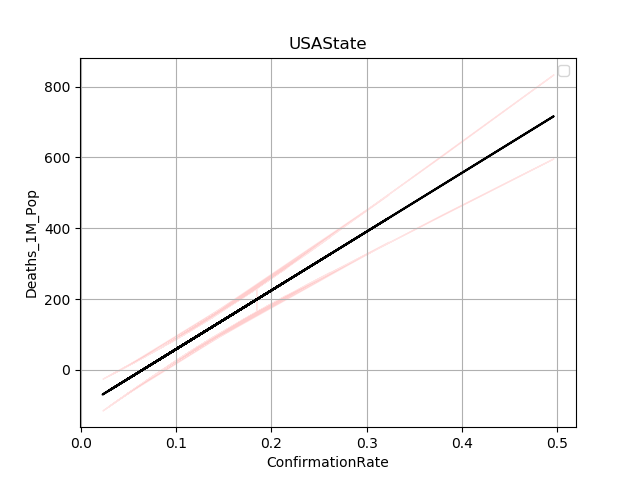
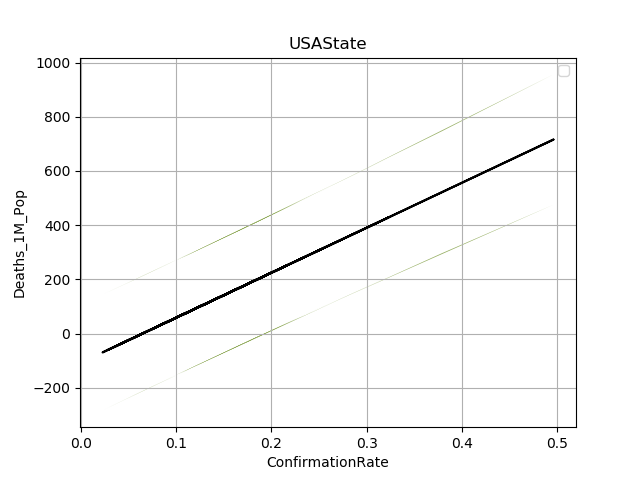
Adding Prediction interval

diff --git a/Python/Statistics/LinearRegression.py b/Python/Statistics/LinearRegression.py
@@ -7,8 +7,8 @@ from Statistics.LinearRegressionBase import LinearRegressionBase
 
 
 class LinearRegression(LinearRegressionBase):
-    def __init__(self, location, X, Y, xlabel, ylabel):
-        super().__init__(location, X, Y, xlabel, ylabel)
+    def __init__(self, X, Y, title, xlabel, ylabel):
+        super().__init__(X, Y, title, xlabel, ylabel)
 
         self.X_matrix = self.createXMatrix()
         XTX = self.X_matrix.transpose() @ self.X_matrix
@@ -18,6 +18,7 @@ class LinearRegression(LinearRegressionBase):
         self.v1 = self.n - 2
         self.S1 = SSe
         self.sigma = np.sqrt(self.S1 / self.v1)
+        b = self.b_pdf(self.B[1], self.sigma, self.v1)
         self.y = self.createLinReg(self.B[0], self.B[1])
         self.plotLine(self.y)
 
@@ -30,25 +31,42 @@ class LinearRegression(LinearRegressionBase):
     def a_pdf(self):
         a = t.pdf(self.X, self.B[0], self.sigma * np.sqrt(1/self.n), self.v1)
 
-    def getPrecision(self):
-        precision_pdf = gamma.pdf(self.X, self.v1/2, self.S1/2)
-        print("Precision is: {}".format(precision_pdf))
-        return precision_pdf
 
-    def CI(self, theta):
+    def Interval(self, theta, pred_number = 0):
         m = self.getMu(self.B)
         st = t.ppf(theta, self.v1)
-        s = self.getSigma(self.sigma)
+        s = self.getSigma(self.sigma, pred_number)
         lower = m - (st * s)
         upper = m + (st * s)
-        return np.array([lower, upper])
+        if pred_number == 0:
+            self.CI = np.array([lower, upper])
+            return self.CI
+        else:
+            self.PI = np.array([lower, upper])
+            return self.PI
 
-    def plotCredibility(self, color='r', ci = None):
+    def precisionDistr(self):
+        precision = []
+        x_axis = np.linspace(self.Xmin, self.Xmax)
+        for x in x_axis:
+            precision.append(self.gamma_pdf(self.v1 / 2, self.S1 / 2, x))
+        print("Precision is: {}".format(precision))
+        return precision
+
+    def plotCredibility(self, ci = None, pred = False, both = False):
         if ci is None:
-            ci = self.CI(0.05)
+            ci = self.Interval(0.05)
+
+        
         plt.grid(True)
+
         plt.plot(self.X, self.y, color='black')
-        plt.fill_between(self.X, ci[0], ci[1], color='r', alpha=.1)
+
+        if pred:
+            plt.fill_between(self.X, self.PI[0], self.PI[1], facecolor='OliveDrab', interpolate=True, alpha=.7)
+        else:
+            plt.fill_between(self.X, ci[0], ci[1], facecolor='Crimson', interpolate=True, alpha=.9)
+
         plt.title(self.location)
         plt.xlabel(self.xlabel)
         plt.ylabel(self.ylabel)

diff --git a/Python/Statistics/LinearRegressionBase.py b/Python/Statistics/LinearRegressionBase.py
@@ -1,13 +1,16 @@
 import numpy as np
 import matplotlib.pylab as plt
+from scipy.stats import t
 
 class LinearRegressionBase:
-    def __init__(self, location, X, Y, xlabel, ylabel):
+    def __init__(self, X, Y, title, xlabel, ylabel):
         self.xlabel = xlabel
         self.ylabel = ylabel
         self.X = X
         self.Y = Y
-        self.location = location
+        self.Xmin = np.min(X)
+        self.Xmax = np.max(X)
+        self.location = title
         self.n = len(X)
         Sx = sum(X)
         self.mu_x = Sx / self.n
@@ -31,9 +34,17 @@ class LinearRegressionBase:
     def getMu(self, B):
         return B[0] + (B[1] * self.X)
 
-    def getSigma(self, s1):
-        s = s1 * (np.sqrt((1 / self.n) + ((self.X - self.mu_x) ** 2) / self.SSx))
+    def getSigma(self, s1, pred_number):
+        s = s1 * (np.sqrt( pred_number + (1 / self.n) + ((self.X - self.mu_x) ** 2) / self.SSx))
         return s
+
+    def b_pdf(self, m, s, v1):
+        s = s * np.sqrt(1 / self.SSx)
+        b = []
+        x_axis = np.linspace(self.Xmin, self.Xmax)
+        for x in x_axis:
+            b.append(t.pdf(x, m, s, v1))
+        return np.array(b)
 
     def createLinReg(self, alpha, beta):
         return alpha + (beta * self.X)
@@ -49,3 +60,8 @@ class LinearRegressionBase:
         filename = 'Reg_{}_{}'.format(self.xlabel, self.ylabel)
         plt.savefig('Figures/Regression/{}.png'.format(filename))
         plt.show()
+
+    def gamma_pdf(self, k, lam, x):
+        upper = (lam * x)**(k - 1)
+        lower = np.math.factorial(k - 1)
+        return (upper / lower) * k * np.exp(-lam * x)

diff --git a/Python/main.py b/Python/main.py
@@ -14,19 +14,16 @@ all_data = dh.get_csv(dh, all_url, "all")
 print("US Data shape: {}".format(us_data.shape))
 print("Global Data shape: {}".format(all_data.shape))
 
-# quite decent
-lr = LinearRegression("USAState", us_data["ConfirmationRate"].values, us_data["Deaths_1M_Pop"].values, "ConfirmationRate", "Deaths_1M_Pop")
-CI95 = lr.CI(0.025)
-print(CI95)
-lr.plotCredibility('r', CI95)
+theta = 0.025
 
-lr2 = LinearRegression("USAState", us_data["Tot_Cases_1M_Pop"].values, us_data["ConfirmationRate"].values, "Tot_Cases_1M_Pop", "ConfirmationRate")
+lr = LinearRegression(us_data["ConfirmationRate"].values, us_data["Deaths_1M_Pop"].values, "USAState", "ConfirmationRate", "Deaths_1M_Pop")
+lr.plotCredibility(lr.Interval(theta))
+lr.plotCredibility(lr.Interval(theta, 1), pred=True)
 
-CI95 = lr2.CI(0.025)
-print(CI95)
-lr2.plotCredibility('b', CI95)
+lr2 = LinearRegression(us_data["Tot_Cases_1M_Pop"].values, us_data["ConfirmationRate"].values, "USAState", "Tot_Cases_1M_Pop", "ConfirmationRate")
+CI95 = lr2.Interval(theta)
+lr2.plotCredibility(CI95)
 
-lr3 = LinearRegression("USAState", us_data["Tot_Cases_1M_Pop"].values, us_data["Deaths_1M_Pop"].values, "Tot_Cases_1M_Pop", "Deaths_1M_Pop")
-CI95 = lr3.CI(0.025)
-print(CI95)
-lr3.plotCredibility('purple', CI95)
+lr3 = LinearRegression(us_data["Tot_Cases_1M_Pop"].values, us_data["Deaths_1M_Pop"].values, "USAState", "Tot_Cases_1M_Pop", "Deaths_1M_Pop")
+CI95 = lr3.Interval(theta)
+lr3.plotCredibility(CI95)

diff --git a/Python/Statistics/LinearRegressionCentered.py b/Python/Statistics/LinearRegressionCentered.py
@@ -7,10 +7,10 @@ from Statistics.LinearRegressionBase import LinearRegressionBase
 
 
 class LinearRegressionCentered(LinearRegressionBase):
-    def __init__(self, location, X, Y, xlabel, ylabel):
+    def __init__(self, X, Y, title, xlabel, ylabel):
         mu = sum(X) / len(X)
         X = X - mu
-        super().__init__(location, X, Y, xlabel, ylabel)
+        super().__init__(X, Y, title, xlabel, ylabel)
 
         self.XTX = self.getXTX(self.SSx, self.n)
         Sy, Sxy = sum(Y), sum(X*Y)
